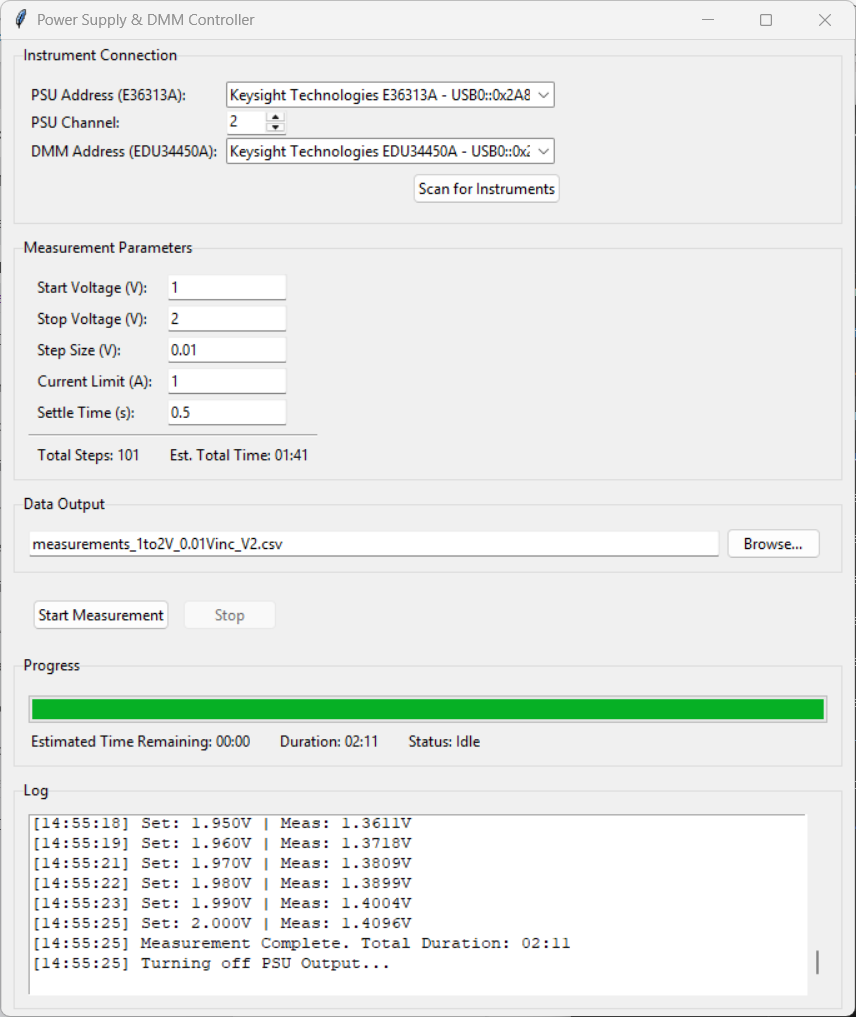
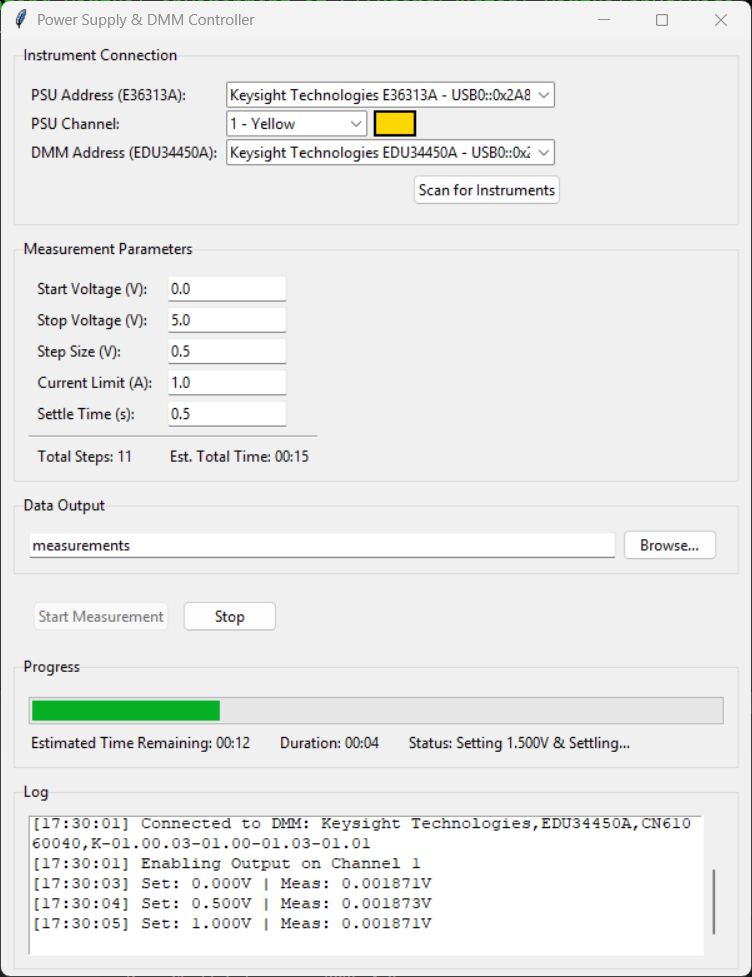
Add README.md & updated example image
Added README and updated example image

diff --git a/README.md b/README.md
@@ -1,0 +1,46 @@
+# PSU-DMM PyVISA Data Capture
+
+This simple Python program is designed to automate voltage sweeps and data logging using Keysight bench equipment. It controls a Power Supply Unit (PSU) to step through a voltage range while recording voltage measurements from a Digital Multimeter (DMM).
+
+## Supported Instruments
+
+- **Power Supply:** Keysight E36313A 
+  - *(Will probably work with similar models too)*
+- **Digital Multimeter:** Keysight EDU34450A
+  - *(Will probably work with similar models too)*
+
+## Features
+
+- **GUI Control:** Built with Tkinter for easy config.
+- **Automated Sweeps:** Configurable start voltage, stop voltage, step size, and settle time.
+- **Data Logging:** Automatically saves data to CSV files.
+- **Instrument Discovery:** Scans and lists connected VISA resources.
+
+## Example Image:
+![Example Image](example.png)
+
+## Quick Setup (Windows)
+
+The included PowerShell script handles environment setup and dependency installation automatically.
+
+1. Open PowerShell in this directory.
+2. Run the launch script:
+   ```powershell
+   .\launch.ps1
+   ```
+   - This will create a virtual environment, install the required dependencies, and launch the application.
+
+## Manual Setup
+
+1. Install Python (3.x). Either from [Python.org](https://www.python.org/downloads/) or via the [Microsoft Store](https://apps.microsoft.com/search?query=Python).
+2. Open a PowerShell terminal and navigate to the install directory.
+3. Install dependencies:
+   ```bash
+   pip install -r requirements.txt
+   ```
+   *Note: You must have a [VISA backend](https://pyvisa.readthedocs.io/en/latest/introduction/getting.html#backend) installed (like NI-VISA or Keysight IO Libraries Suite) for PyVISA to communicate with instruments.*
+4. Run the script:
+   ```bash
+   python visa_logger.py
+   ```
+
